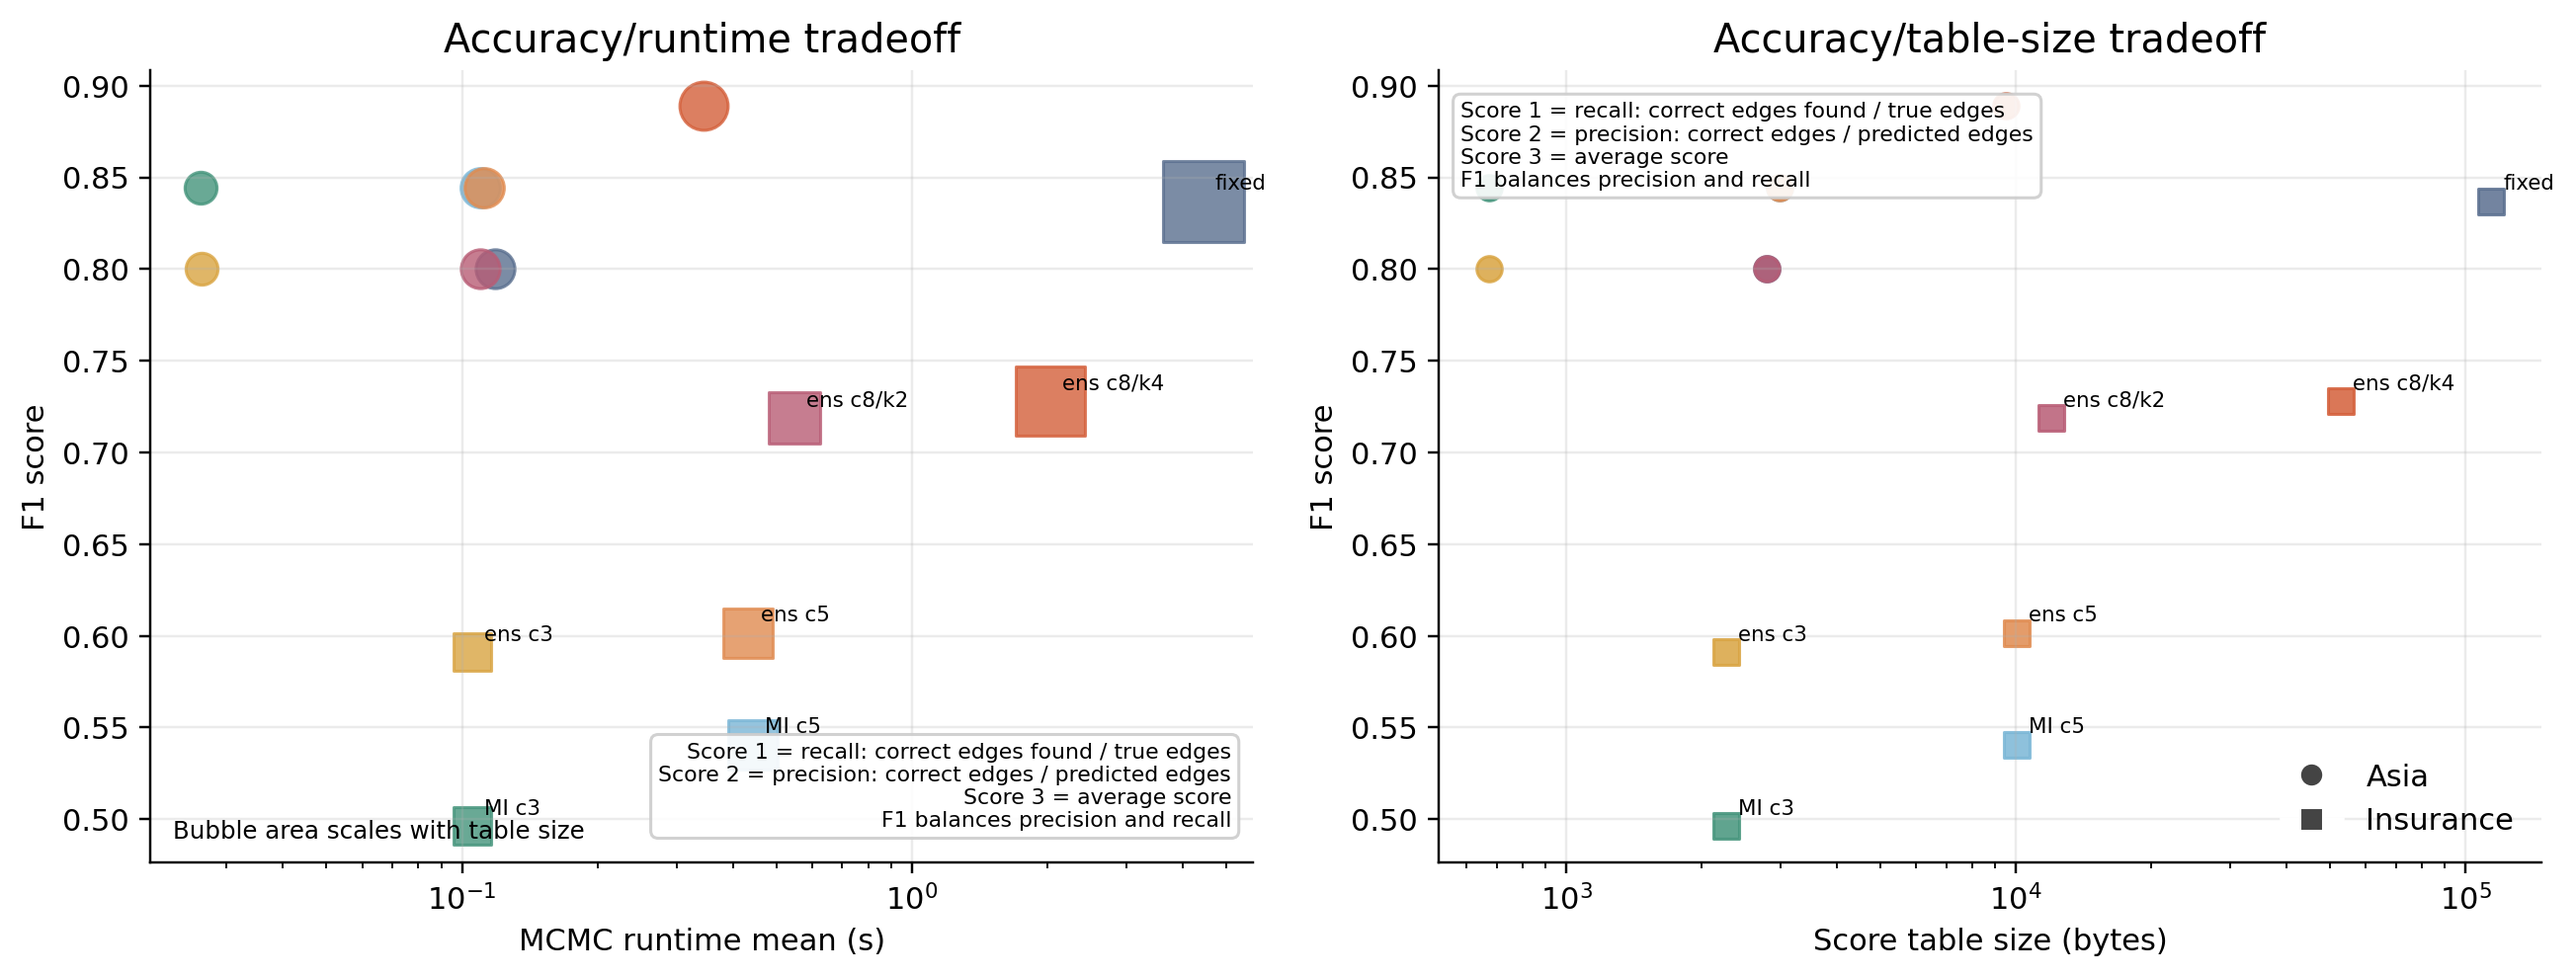
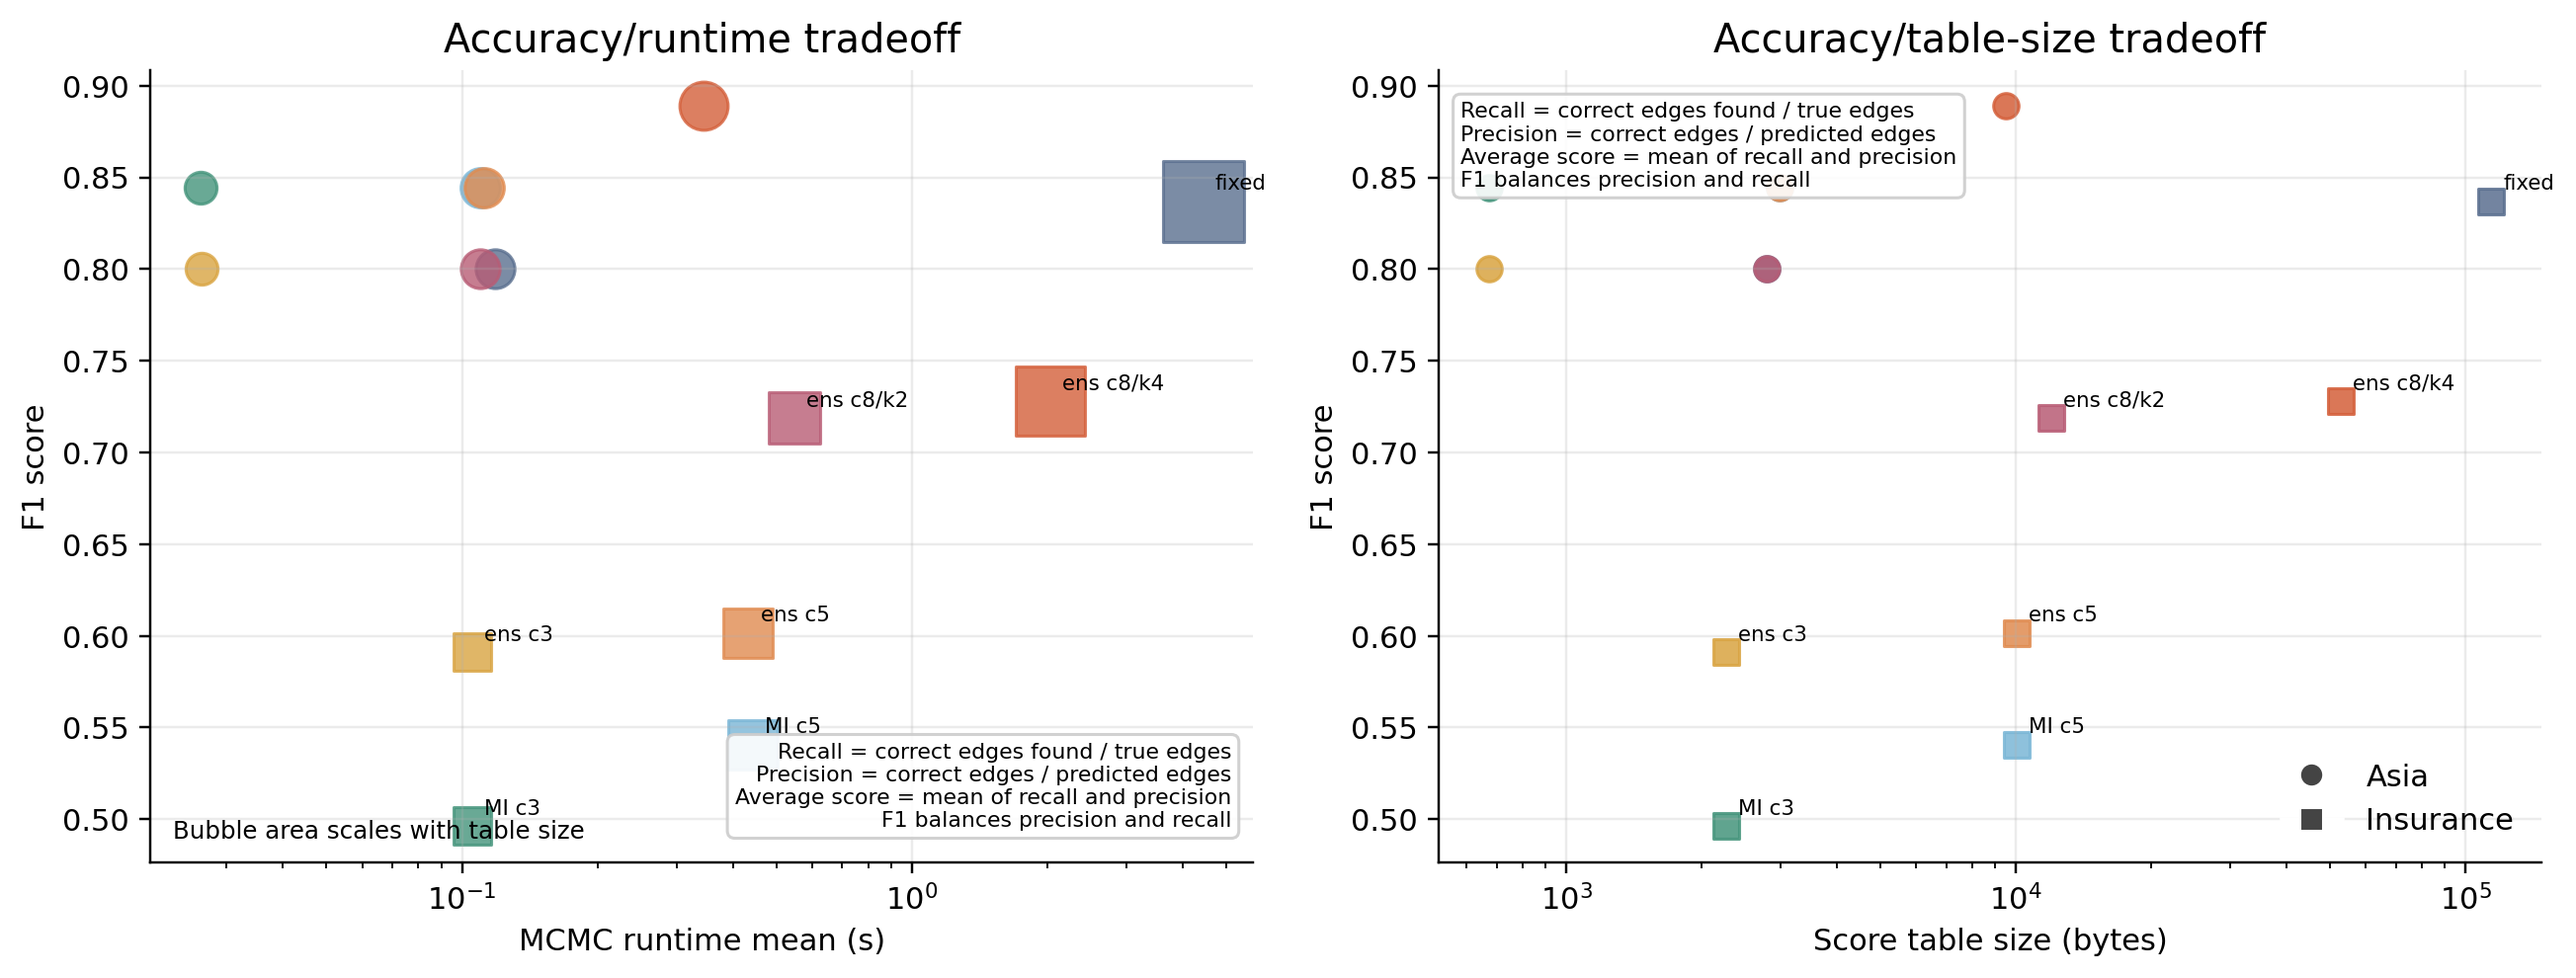
Fixed iamges and navigation

Changed region(s): [[0.5593, 0.0909, 0.8078, 0.1818], [0.2486, 0.7576, 0.4971, 0.8182]]

diff --git a/scripts/generate_ece5760_figures.py b/scripts/generate_ece5760_figures.py
@@ -78,9 +78,9 @@ def savefig(name):
 
 def add_score_key(ax, *, loc="lower right", include_f1=False):
     lines = [
-        "Score 1 = recall: correct edges found / true edges",
-        "Score 2 = precision: correct edges / predicted edges",
-        "Score 3 = average score",
+        "Recall = correct edges found / true edges",
+        "Precision = correct edges / predicted edges",
+        "Average score = mean of recall and precision",
     ]
     if include_f1:
         lines.append("F1 balances precision and recall")
@@ -170,7 +170,7 @@ def plot_insurance_runtime_and_score(timing):
     ax.set_xscale("log")
     ax.set_ylim(0, 0.92)
     ax.set_xlabel("MCMC iterations")
-    ax.set_ylabel("Score 3 (average score)")
+    ax.set_ylabel("Average score")
     ax.set_title("Insurance score convergence")
     add_score_key(ax, loc="lower right")
     ax.legend()
@@ -210,7 +210,7 @@ def plot_parallelization_convergence(timing):
     ax.set_xscale("log")
     ax.set_ylim(0, 0.9)
     ax.set_xlabel("MCMC iterations")
-    ax.set_ylabel("Score 3 (average score)")
+    ax.set_ylabel("Average score")
     ax.set_title("Parallelization improves early convergence, then converges")
     add_score_key(ax, loc="lower right")
     ax.legend(ncol=2)
@@ -221,14 +221,14 @@ def plot_parallel_score_components(timing):
     df = extract_parallel_table(timing)
     sub = df[df["parallel_versions"] == 4].sort_values("iterations")
     fig, ax = plt.subplots(figsize=(7.4, 4.4))
-    ax.plot(sub["iterations"], sub["score1"], "o-", label="Score 1: recall", color="#5a6f8f")
-    ax.plot(sub["iterations"], sub["score2"], "s-", label="Score 2: precision", color="#44947b")
-    ax.plot(sub["iterations"], sub["score3"], "^-", label="Score 3: average", color="#d45f3a", linewidth=2.3)
+    ax.plot(sub["iterations"], sub["score1"], "o-", label="Recall", color="#5a6f8f")
+    ax.plot(sub["iterations"], sub["score2"], "s-", label="Precision", color="#44947b")
+    ax.plot(sub["iterations"], sub["score3"], "^-", label="Average score", color="#d45f3a", linewidth=2.3)
     ax.set_xscale("log")
     ax.set_ylim(0, 1.0)
     ax.set_xlabel("MCMC iterations")
-    ax.set_ylabel("Score")
-    ax.set_title("Score components for 4-way parallel Insurance run")
+    ax.set_ylabel("Metric value")
+    ax.set_title("Recall, precision, and average for 4-way parallel Insurance run")
     add_score_key(ax, loc="lower right")
     ax.legend()
     return savefig("insurance_score_components_4way.png")

diff --git a/_pages/results.md b/_pages/results.md
@@ -29,7 +29,7 @@ The parallel-version experiment shows the expected behavior for sampling. With s
 
 {% include figure.liquid path="assets/img/results/insurance_score_components_4way.png" class="img-fluid rounded z-depth-1" alt="Insurance score components for four-way parallel run" %}
 
-The score-component plot separates the three score columns from the spreadsheet for the four-way parallel Insurance run. Score 1 is recall, meaning the percent of correct edges recovered from the reference graph. Score 2 is precision, meaning the percent of predicted edges that were actually correct. Score 3 is treated as the average score because it tracks between recall and precision across the iteration sweep. All three scores improve sharply from 100 to 5,000 iterations, then flatten, which suggests diminishing returns after the sampler has reached a strong region of the order space.
+The score-component plot separates recall, precision, and average score for the four-way parallel Insurance run. Recall is the percent of correct edges recovered from the reference graph. Precision is the percent of predicted edges that were actually correct. The average score tracks between recall and precision across the iteration sweep. All three improve sharply from 100 to 5,000 iterations, then flatten, which suggests diminishing returns after the sampler has reached a strong region of the order space.
 
 {% include figure.liquid path="assets/img/results/ml_vs_fixed_software.png" class="img-fluid rounded z-depth-1" alt="ML-pruned candidates versus fixed candidate baseline" %}
 

diff --git a/_pages/appendices.md b/_pages/appendices.md
@@ -1,6 +1,6 @@
 ---
 layout: page
-title: appendices and references
+title: appendices
 permalink: /appendices/
 description: Code listings, schematics, team contributions, permissions, and references.
 nav: true
